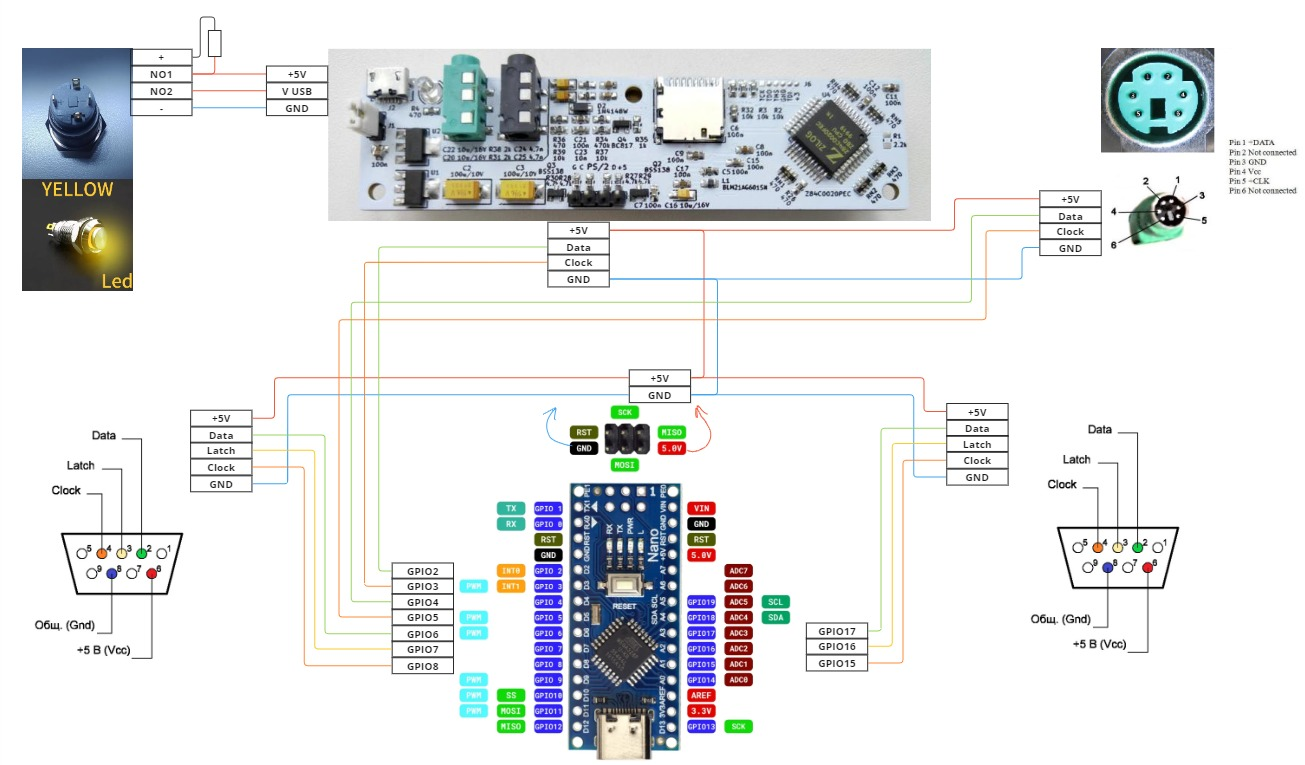
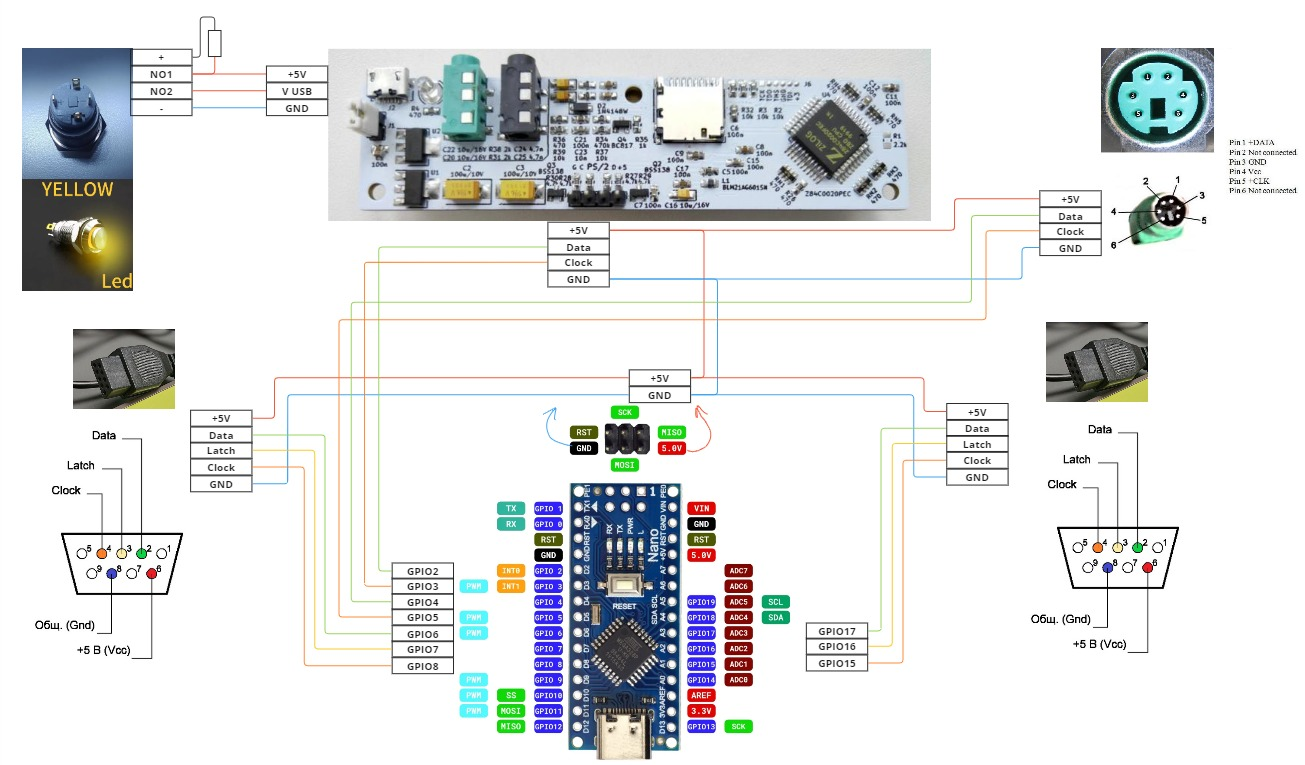
change Wire Diagram

diff --git a/README.md b/README.md
@@ -28,7 +28,7 @@ Case for Sizif XXS RevB looks like here (waiting for Slot Connector Socket for S
 <img src="images/CaseForSizifXXS.png" alt="PS/2 slot" height="300"/>
 
 ## Wire Diagram
-<img src="images/Wire-diagram.jpg" alt="PS/2 slot" height="400"/>
+<img src="images/Wire-diagram.jpg" alt="Wire diagram" height="400"/>
 
 Gamepads Arduino pins:
 - PULT1_DATA_PIN 17
@@ -45,6 +45,10 @@ Emulator Arduino pins to connect into retro PC
 PS2 Keyboard Arduino pins to connect into Keyboard
 - PS2_KEYBOARD_DATA_PIN 4
 - PS2_KEYBOARD_CLOCK_PIN 5
+
+For other NES sockets:
+
+<img src="images/Gamepad-pinout.png" alt="Gamepad pinout" height="200"/>
 
 ## TODO list
 - [X] Create TODO list
